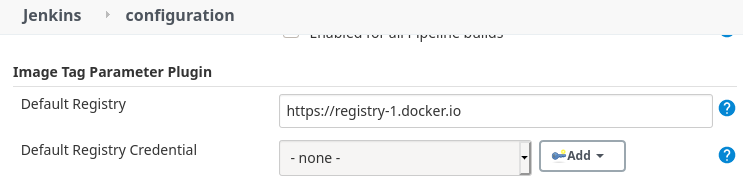
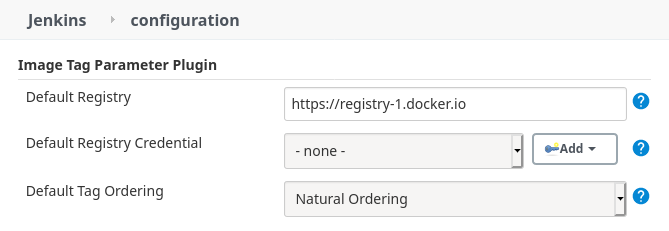
update readme with new order option text

diff --git a/README.md b/README.md
@@ -18,6 +18,27 @@ It uses the Docker **Registry HTTP API V2** to list tags available for an image.
 
 ## Usage
 
+### Global Configuration
+
+This Plugin allows a Jenkins admin to set a default registry in the Jenkins config, which will get used for any ImageTag parameter that does not overwrite the `registry` value in the parameter definition.
+It is also possible (as of v1.8) to define a default credential, which should get used alongside of that default registry.
+The default credential can be overwritten on a per parameter level just like the default registry.
+
+#### JCasC (Jenkins Configuration as Code)
+
+```yaml
+unclassified:
+# ...
+  imageTagParameterConfiguration:
+    defaultRegistry: "https://registry-1.docker.io"
+    defaultCredentialId: ""
+    defaultTagOrdering: DSC_VERSION
+# ... 
+```
+
+Configuring this plugins global config was available via JCasC since the addition of the global config in v1.2,
+but the `defaultCredentialId` value can only be configured with a ImageTagParam version equal or newer to v1.8.
+
 ### Definition in Freestyle / Pipeline UI
 This is basically showcased in the above [screenshots](#screenshots) :wink:
 
@@ -27,13 +48,17 @@ pipeline {
   agent any
 
   parameters {
-    imageTag credentialId: '', description: '', filter: 'lts.*', image: 'jenkins/jenkins', name: 'DOCKER_IMAGE', registry: 'https://registry-1.docker.io'
+    imageTag(name: 'DOCKER_IMAGE', description: '', 
+             image: 'jenkins/jenkins', filter: 'lts.*', defaultTag: 'lts-jdk11',
+             registry: 'https://registry-1.docker.io', credentialId: '', tagOrder: 'NATURAL')
   }
 
   stages {
     stage('Test') {
       steps {
-        echo "$DOCKER_IMAGE"
+        echo "$DOCKER_IMAGE" // will print selected image name with tag (eg. jenkins/jenkins:lts-jdk11)
+        echo "$DOCKER_IMAGE_TAG" // will print selected tag value (eg. lts-jdk11)
+        echo "$DOCKER_IMAGE_IMAGE" // will print selected image name value (eg. jenkins/jenkins)
       }
     }
   }
@@ -47,32 +72,27 @@ parameters {
 }
 ``` 
 
-### Global Configuration
-
-This Plugin allows a Jenkins admin to set a default registry in the Jenkins config, which will get used for any ImageTag parameter that does not overwrite the `registry` value in the parameter definition.
-It is also possible (as of v1.7) to define a default credential, which should get used alongside of that default registry.
-The default credential can be overwritten on a per parameter level just like the default registry.
-
-#### JCasC (Jenkins Configuration as Code)
-
-```yaml
-unclassified:
-# ...
-  imageTagParameterConfiguration:
-    defaultRegistry: https://registry-1.docker.io
-    defaultCredentialId: ""
-# ... 
-```
-
-Configuring this plugins global config was available via JCasC since the addition of the global config in v1.2,
-but the `defaultCredentialId` value can only be configured with a ImageTagParam version equal or newer to v1.7.
-
 ### Exposed Environment Variables (and params, since version 1.6) 
 Based on default Jenkins behaviour you can use `params.imageTagParameterName` to access the value of `imageName:imageTag`,
 but since you most of the time only need the image tag by itself the plugin also exports some additional environment variables.
 
 * **$imageTagParameterName_TAG** (or *env.imageTagParameterName_TAG*) contains only the tag value without the image name
 * **$imageTagParameterName_IMAGE** (or *env.imageTagParameterName_IMAGE*) contains only the name of the image without the tag
+
+### Set ImageTag Order (1.8+)
+
+The order, of which the ImageTags are listed in the selector box, can be altered by the user via the parameter definition.
+There are currently four options available:
+
+* **NATURAL** or *Natural Ordering* ... this is the default setting and offers the same ordering as in the previous versions
+* **REV_NATURAL** or *Reverse Natural Ordering* ... the reverted version of **NATURAL**
+* **DSC_VERSION** or *Descending Versions* ... This will attempt to parse the gathered queried tags into `hudson.util.VersionNumber` 
+and order them descending.
+* **ASC_VERSION** op *Ascending Versions* ... just like **DSC_VERSION** only in reverse (aka. ascending sorted)
+
+**NOTE** The [`hudson.util.VersionNumber`](https://github.com/jenkinsci/lib-version-number/blob/master/src/main/java/hudson/util/VersionNumber.java) 
+may try to its best ability to parse a tag to a version, but as ImageTags don't require a format this might not yield an expected result,
+ so make sure to use a tag order that fits best for the tags you offer via a given job parameter.
 
 ## Contributing
 
